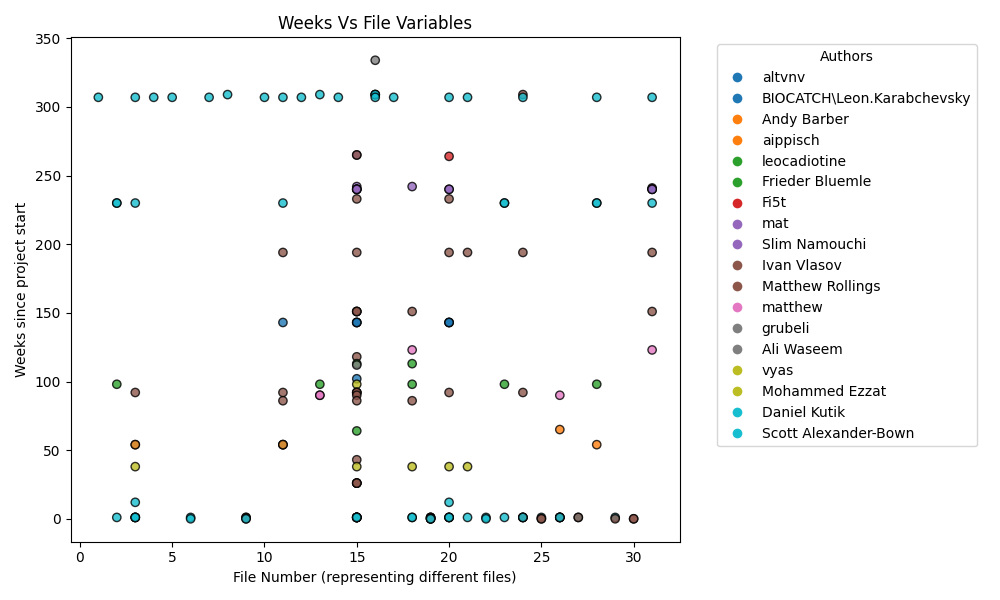
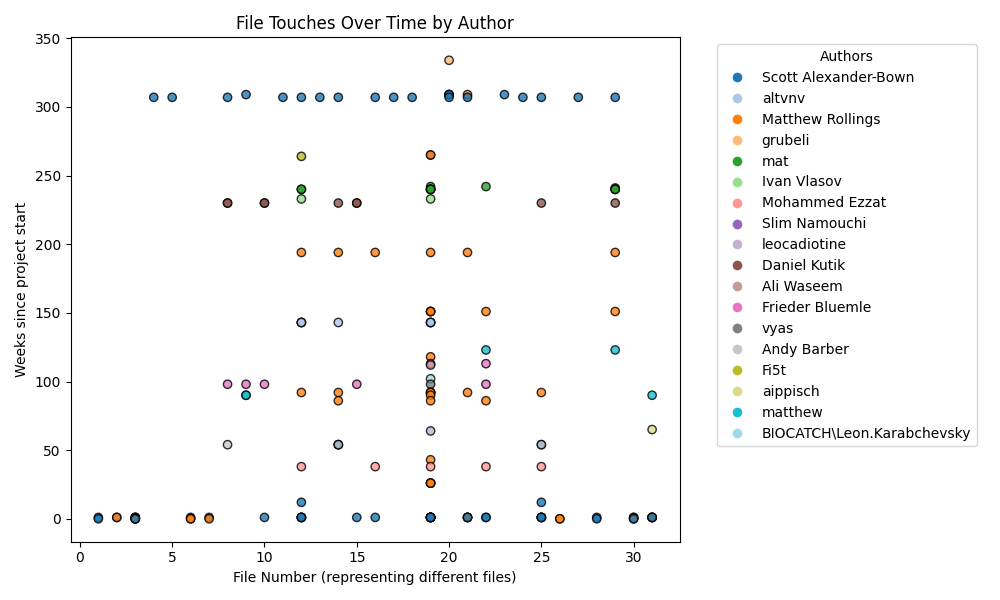
fixing colors

diff --git a/caesar_scatterplot.py b/caesar_scatterplot.py
@@ -23,7 +23,7 @@ def plot_scatter(data, output_file):
     # Extract unique authors
     authors = list({row['Author'] for row in data})
     author_colors = {author: i for i, author in enumerate(authors)}
-    cmap = plt.get_cmap('tab10', len(authors))  
+    cmap = plt.get_cmap('tab20', len(authors))  # Use a distinct colormap with 20 distinct colors
 
     # Extract unique file names and assign them numbers for the x-axis
     file_names = list({row['Filename'] for row in data})
@@ -63,7 +63,7 @@ def plot_scatter(data, output_file):
     # Label the axes
     plt.xlabel('File Number (representing different files)')
     plt.ylabel('Weeks since project start')
-    plt.title('Weeks Vs File Variables')
+    plt.title('File Touches Over Time by Author')
 
     # Save plot as PNG file
     plt.tight_layout()
